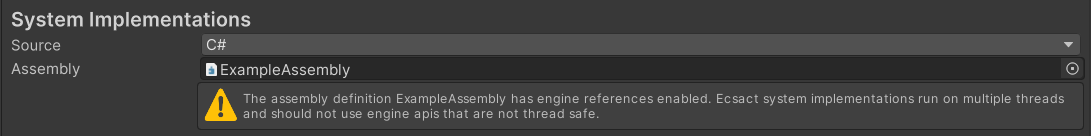
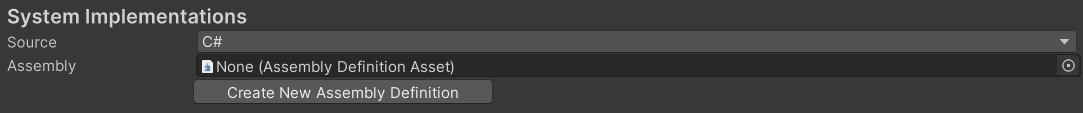
More polish, added punctuation, fixed links and updated assembly docs

diff --git a/src/app/tutorials/unity/moving-block/moving-block.component.html b/src/app/tutorials/unity/moving-block/moving-block.component.html
@@ -29,7 +29,7 @@
 		<p>
 			You'll want to <a routerLink="/start/unity">setup</a> your Assembly file,
 			get the Ecsact Integration and enable Unity Sync. You can read about how
-			to do that
+			to do that.
 		</p>
 	</section>
 
@@ -58,8 +58,8 @@
 		<p>
 			Now that we have our components, we can create a Sync Script that we'll
 			call <code>AddBlock.cs</code>. We need something to instantiate in our
-			Rescources folder. For our example we're going to use a basic square in
-			<code>Sprite Renderer</code>
+			<code>Rescources</code> folder. For our example we're going to use a basic
+			square in <code>Sprite Renderer</code>.
 		</p>
 
 		<code-block-variation>
@@ -93,14 +93,16 @@
 		<p>
 			Note: <code>Resources.Load</code> needs to happen on <code>Awake</code> to
 			be available in <code>OnInitComponent</code> because of how everything is
-			initialized
+			initialized.
 		</p>
 
 		<p>
 			Let's see if our script is working! Let's have an initial entity spawn by
-			using <a routerLink="/docs/unity/entities">Dynamic Entity</a>. If
-			everything worked correctly, when you enter playmode a gameObject should
-			spawn at the position you inputted for the entity.
+			using
+			<a routerLink="/docs/unity/entities" fragment="dynamic-entity"
+				>Dynamic Entity</a
+			>. If everything worked correctly, when you enter playmode a gameObject
+			should spawn at the position you inputted for the entity.
 		</p>
 	</section>
 
@@ -109,7 +111,7 @@
 		<p>
 			What if we took this one step further? We've managed to use Unity Sync
 			with our Dynamic Entity, but Unity Sync will adapt to changes in entities
-			during runtime. Let's go into our <code>.ecsact</code> file
+			during runtime. Let's go into our <code>.ecsact</code> file.
 		</p>
 		<code-block-variation>
 			<pre codeBlockVariationOption><code ecsactLangSyntax>
@@ -196,7 +198,7 @@
 			The action is now set to be pushed whenever the InputAction is called in
 			<code>GenerateBlock.cs</code>. This will need to in the scene on a
 			GameObject to be present during the runtime. With Ecsact and pushing the
-			action accounted for, all that's left to do is implement the systems
+			action accounted for, all that's left to do is implement the systems.
 		</p>
 
 		<code-block-variation>
@@ -241,11 +243,12 @@
 		</code-block-variation>
 
 		<p>
-			When the InputAction is pressed, a new entity will be generated with a
-			block the same way our <code>Dynamic Entity</code> does. But there's a
-			small difference. When an entity is spawned at runtime, the Position of
-			the entity won't be applied to the gameobject itself. We can use Unity
-			Sync to solve that problem
+			When the <code>InputAction</code> is pressed, a new entity will be
+			generated with a block the same way our <code>Dynamic Entity</code> does.
+			But there's a small difference. When an entity is spawned at runtime, the
+			Position of the entity won't be applied to the gameobject itself. We can
+			use <a routerLink="/docs/unity/unity-sync">Unity Sync</a> to solve that
+			problem.
 		</p>
 		<code-block-variation>
 			<pre codeBlockVariationOption><code prism language="csharp">
@@ -270,7 +273,7 @@
 		</code-block-variation>
 		<p>
 			A listener for <code>OnUpdate</code> was added too. This will be used a
-			bit later for Movement
+			bit later for Movement.
 		</p>
 	</section>
 
@@ -279,8 +282,9 @@
 		<p>
 			So we can generate entities at will during runtime and manipulate their
 			data. The only problem now is we can't interact with them. Let's add
-			movement to all the entity blocks that we spawn. We'll add velocity, a
-			move action, and a system to apply changes
+			movement to all the entity blocks that we spawn. We'll add
+			<code>Velocity</code>, a move action, and a corresponding system to apply
+			changes.
 		</p>
 		<code-block-variation>
 			<pre codeBlockVariationOption><code ecsactLangSyntax>
@@ -312,13 +316,13 @@
 			<code>Move</code> action. This lets other entities be affected by velocity
 			without movement. Remember, you'll need to update your generates in
 			<code>Ecsact</code>, any Dynamic Entities and
-			<code>GenerateBlockSystem</code> to see the effects
+			<code>GenerateBlockSystem</code> to see the effects.
 		</p>
 		<p>
 			Let's move to Unity. In our example, we'll add a script to the same
 			GameObject that holds our <code>Dynamic Entity</code> called
 			<code>MoveControls</code>. This will hold input logic and push Actions to
-			Ecsact's <code>Runner</code>
+			Ecsact's <code>Runner</code>.
 		</p>
 		<code-block-variation>
 			<pre codeBlockVariationOption><code prism language="csharp">
@@ -375,7 +379,7 @@
 			<code>Action</code>. Now like before we implement our systems. This might
 			start to feel familiar, the workflow of getting to and from Ecsact doesn't
 			change very much. We'll make another script we'll drop into our systems
-			folder called <code>MoveSystems</code>
+			folder called <code>MoveSystems</code>.
 		</p>
 		<code-block-variation>
 			<pre codeBlockVariationOption><code prism language="csharp">
@@ -417,7 +421,7 @@
 		</code-block-variation>
 		<p>
 			Since we already added <code>SyncMove</code> earlier, the gameobject
-			should be updated whenever the position of the entity is
+			should be updated whenever the position of the entity is.
 		</p>
 	</section>
 	<section>
@@ -427,7 +431,7 @@
 			way. The big problem now is we can go off the screen, and there's no way
 			to
 			<code>interact</code> with the other entities in our scene. We're going to
-			cover one of the ways in which you could compare entities and create
+			cover one of the ways in which you can compare entities and create
 			interactions with <code>Nested Systems</code>.
 		</p>
 		<p>If it isn't obvious at this point, we're going to start with Ecsact!</p>
@@ -451,14 +455,14 @@
 		</code-block-variation>
 		<p>
 			A
-			<a routerLink="/docs/lang" fragment="#nested-systems">Nested System</a>
+			<a routerLink="/docs/lang" fragment="nested-systems">Nested System</a>
 			takes each entity that qualifies for <code>CollisionComparer</code>, and
 			compares each one against all of the qualified entities in
 			<code>CheckCollision</code>. You can view it as a nested for loop.
 		</p>
 		<p>
 			Note: You need to add the <code>Collider</code> component to any entities
-			that you want to be considered
+			that you want to be considered.
 		</p>
 		<code-block-variation>
 			<pre codeBlockVariationOption><code prism language="csharp">
@@ -508,14 +512,14 @@
 		<p>
 			There's only 1 system implementation. If there's nothing for a
 			<code>system</code> to consider then the system is considered
-			<a routerLink="/docs/system-impl" fragment="#trivial-implementations"
+			<a routerLink="/docs/system-impl" fragment="trivial-implementations"
 				>trivial</a
 			>.
 		</p>
 		<p>
 			To add Colliders to our static objects in a scene, we'll create a script
 			called <code>StaticCollider</code>. The radius of the collider in Ecsact
-			will be determined by the size of the gameobject
+			will be determined by the size of the gameobject.
 		</p>
 		<code-block-variation>
 			<pre codeBlockVariationOption><code prism language="csharp">

diff --git a/src/app/docs/unity/defaults/defaults.component.html b/src/app/docs/unity/defaults/defaults.component.html
@@ -6,14 +6,14 @@
 		<p>
 			The Runtime contains all the C# bindings for the native Ecsact runtime. If
 			you want to make custom implementations of anything in Unity for Ecsact
-			you can do it here
+			you can do it here.
 		</p>
 	</section>
 	<section>
 		<h2 id="registry">Registry</h2>
 		<p>
 			The Registry is an easy way to use core functionality from the Runtime. It
-			simplifies how they're called and needs less information from the user
+			simplifies how they're called and needs less information from the user.
 		</p>
 	</section>
 	<section>
@@ -56,18 +56,18 @@ Ecsact.Defaults.Runner.executionOptions.PushAction(
 		<h3>Target Scene</h3>
 		<p>
 			You can ensure that an entity only spawns in a scene using
-			<code>Pool.targetScene</code>
+			<code>Pool.targetScene</code>.
 		</p>
 		<h3>Root Game Object</h3>
 		<p>
 			You can make your entity a child a singular GameObject using
-			<code>Pool.rootGameObject</code>
+			<code>Pool.rootGameObject</code>.
 		</p>
 		<h3>Set Preferred Entity Game Object</h3>
 		<p>
 			Instead of creating a new GameObject by default for each entity, you can
 			set your own preffered GameObject using
-			<code>Pool.SetPreferredEntityGameObject</code>
+			<code>Pool.SetPreferredEntityGameObject</code>.
 		</p>
 	</section>
 </article>

diff --git a/src/app/start/unity/start-unity.component.html b/src/app/start/unity/start-unity.component.html
@@ -44,7 +44,7 @@
 			href="https://docs.microsoft.com/en-us/visualstudio/install/workload-component-id-vs-build-tools?view=vs-2022"
 			target="_blank">
 			outputs for entries</a
-		>
+		>.
 	</section>
 	<section>
 		<h2>Assembly</h2>
@@ -58,14 +58,23 @@
 		</ol>
 
 		<p>
-			After you've setup your assembly it needs to be set in
+			You can either do that yourself, or the integration will do that
+			automatically with the dependencies for you!
+		</p>
+
+		<p>
+			Go to:
 			<code
 				>Edit <span class="i24">arrow_right</span> ProjectSettings
 				<span class="i24">arrow_right</span> Ecsact</code
 			>
-			under System Implementations
+			under System Implementations.
 		</p>
 		<img src="assets/assembly_setup.png" width="800" height="200" />
+		<p>
+			All you have to do is press the button and follow the prompt to choose
+			where it's created.
+		</p>
 	</section>
 	<section>
 		<h2>Unity Sync</h2>

diff --git a/src/app/docs/system-execution/system-execution.component.html b/src/app/docs/system-execution/system-execution.component.html
@@ -15,9 +15,17 @@
 	<p>
 		In the above example the systems and actions are executed in order
 		<code>Foo</code>, <code>Bar</code>, and then <code>Baz</code>. If systems or
-		actions do not have <a>conflicting component capabilities</a> they may
-		<a>execute in parallel</a>. This makes your system and action declaration
-		order a design and performance decision.
+		actions do not have
+		<a
+			routerLink="/docs/system-execution"
+			fragment="conflicting-component-capabilities"
+			>conflicting component capabilities</a
+		>
+		they may
+		<a routerLink="/docs/system-execution" fragment="parallel-execution"
+			>execute in parallel</a
+		>. This makes your system and action declaration order a design and
+		performance decision.
 	</p>
 
 	<h2 id="parallel-execution">Parallel Execution</h2>

diff --git a/src/app/tutorials/unity/basic-example/basic-example.component.html b/src/app/tutorials/unity/basic-example/basic-example.component.html
@@ -21,14 +21,6 @@
 	</section>
 
 	<section>
-		<h2>Setup</h2>
-		<p>
-			Make sure to <a routerLink="/start/unity">setup</a> Ecsact Integration and
-			your Assembly file
-		</p>
-	</section>
-
-	<section>
 		<h2 id="ecsact">
 			Writing the
 			<a routerLink="/docs/lang">Ecsact</a> File
@@ -121,9 +113,9 @@
 
 		<p>
 			Components can be declared from the namespace that is dervied from the
-			name of your package in the <code>.ecsact</code> file. Now that we've
-			declared our components, we can add it to our entity with its id using the
-			registry
+			name of your package in the <code>.ecsact</code> file. Now that we have
+			our components, we can add it to an entity with its id using the
+			<code>Registry</code>
 		</p>
 
 		<code-block-variation>

diff --git a/src/app/docs/system-execution/system-execution.module.ts b/src/app/docs/system-execution/system-execution.module.ts
@@ -4,6 +4,7 @@ import {SystemExecutionComponent} from './system-execution.component';
 import {EcsactLangSyntaxModule} from '../../../components/ecsact-lang-syntax/ecsact-lang-syntax.module';
 import {ExecLaneVisModule} from '../../../components/exec-lane-vis/exec-lane-vis.module';
 import {CodeBlockVariationModule} from '../../../components/code-block-variation/code-block-variation.module';
+import {RouterModule} from '@angular/router';
 
 @NgModule({
 	declarations: [SystemExecutionComponent],
@@ -12,6 +13,7 @@ import {CodeBlockVariationModule} from '../../../components/code-block-variation
 		EcsactLangSyntaxModule,
 		ExecLaneVisModule,
 		CodeBlockVariationModule,
+		RouterModule,
 	],
 	exports: [SystemExecutionComponent],
 })

diff --git a/src/app/start/start-overview.component.html b/src/app/start/start-overview.component.html
@@ -12,14 +12,17 @@
 				Ecsact SDK on Windows 10+ is distributed as an
 				<em>app installer</em> and is the recommended way to install the Ecsact
 				SDK. Other download options are available on our
-				<a href="https://github.com/ecsact-dev/ecsact_sdk/releases"
+				<a
+					href="https://github.com/ecsact-dev/ecsact_sdk/releases"
+					target="_blank"
 					>GitHub releases page</a
 				>.
 			</p>
 			<p>
 				<a
 					class="btn text-primary bg-primary-bright text-lg"
-					href="https://ecsact.dev/ecsact_sdk.appinstaller">
+					href="https://ecsact.dev/ecsact_sdk.appinstaller"
+					target="_blank">
 					<span class="text-black font-bold"
 						><span class="i24">download</span> ecsact_sdk.appinstaller</span
 					></a

diff --git a/src/app/start/unreal/start-unreal.component.html b/src/app/start/unreal/start-unreal.component.html
@@ -3,7 +3,9 @@
 	<p class="max-w-lg m-auto">
 		Unreal Engine integration is not available at this time. If you would like
 		to be notified when it is generally available please subscribe to the
-		<a href="https://github.com/ecsact-dev/ecsact_unreal/issues/1"
+		<a
+			href="https://github.com/ecsact-dev/ecsact_unreal/issues/1"
+			target="_blank"
 			>general availablity GitHub issue</a
 		>.
 	</p>

diff --git a/src/app/reference/overview/overview.component.html b/src/app/reference/overview/overview.component.html
@@ -5,7 +5,8 @@
 		<a href="https://github.com/ecsact-dev" target="_blank"
 			>Ecsact org on GitHub</a
 		>. If you're looking for tutorials, guides, or other learning resources then
-		take a look at the <a routerLink="/docs">documentation overview</a>.
+		take a look at the
+		<a routerLink="/docs/overview">documentation overview</a>.
 	</p>
 
 	<h2 id="repos-rundown">Repositories Rundown</h2>

diff --git a/src/app/start/godot/start-godot.component.html b/src/app/start/godot/start-godot.component.html
@@ -3,7 +3,9 @@
 	<p class="max-w-lg m-auto">
 		Godot integration is not available at this time. If you would like to be
 		notified when it is generally available please subscribe to the
-		<a href="https://github.com/ecsact-dev/ecsact_godot/issues/1"
+		<a
+			href="https://github.com/ecsact-dev/ecsact_godot/issues/1"
+			target="_blank"
 			>general availablity GitHub issue</a
 		>.
 	</p>

diff --git a/src/app/docs/unity/entities/entities.component.html b/src/app/docs/unity/entities/entities.component.html
@@ -13,7 +13,7 @@
 		</code-block-variation>
 	</section>
 	<section>
-		<h2 id="dynamic_entity">Dynamic Entity</h2>
+		<h2 id="dynamic-entity">Dynamic Entity</h2>
 		<p>
 			A convenient Monobehaviour that allows you to create an entity and add
 			components to it through the Unity UI

diff --git a/src/app/tutorials/tutorials.component.html b/src/app/tutorials/tutorials.component.html
@@ -12,7 +12,7 @@
 			>Basics</a
 		>
 		<a routerLink="/tutorials/unity/moving-block" routerLinkActive="active">
-			Example using Unity Sync
+			Moving Blocks
 		</a>
 	</ecsact-sidenav-section>
 	<ecsact-sidenav-section title="System Implementations">
